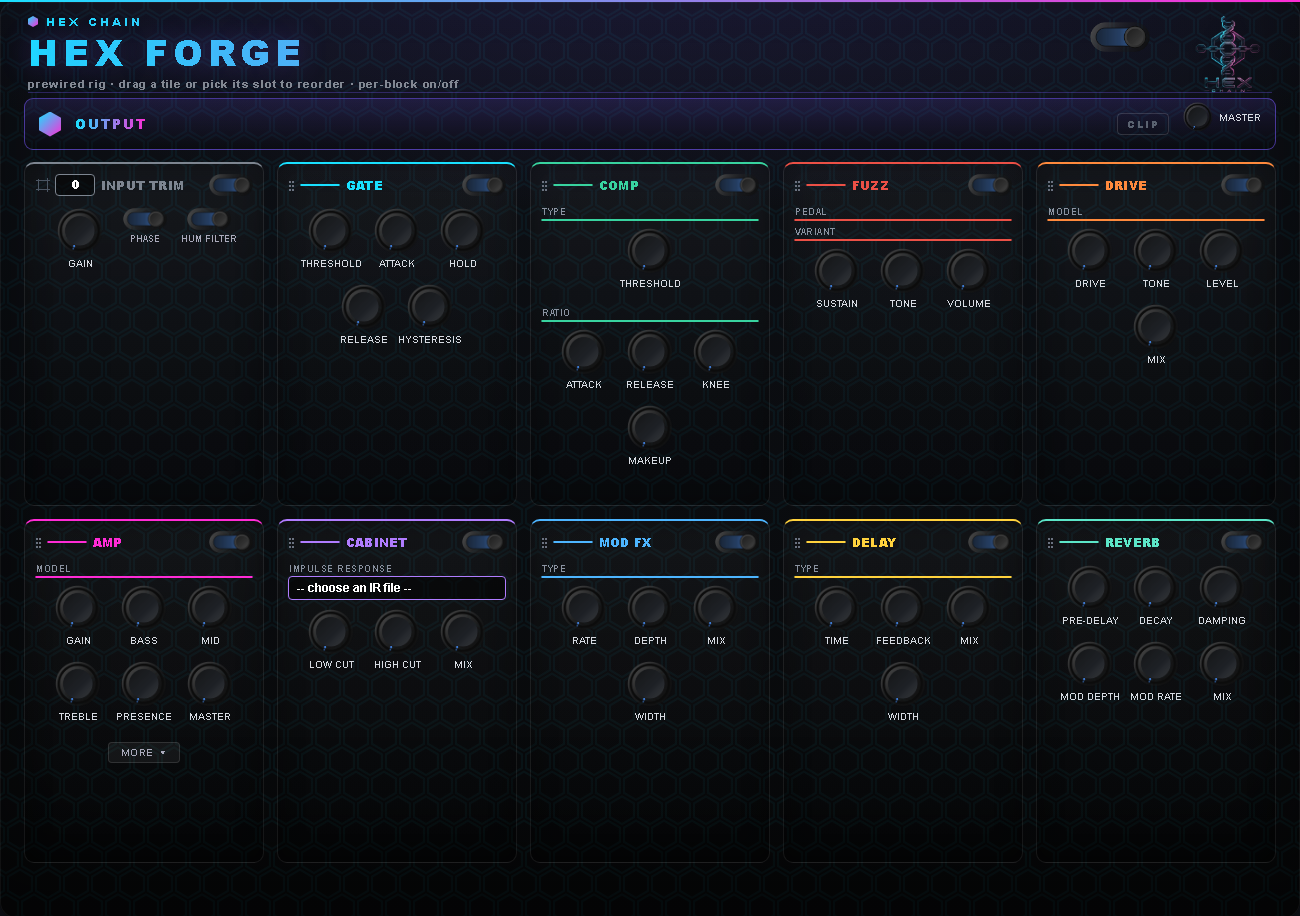
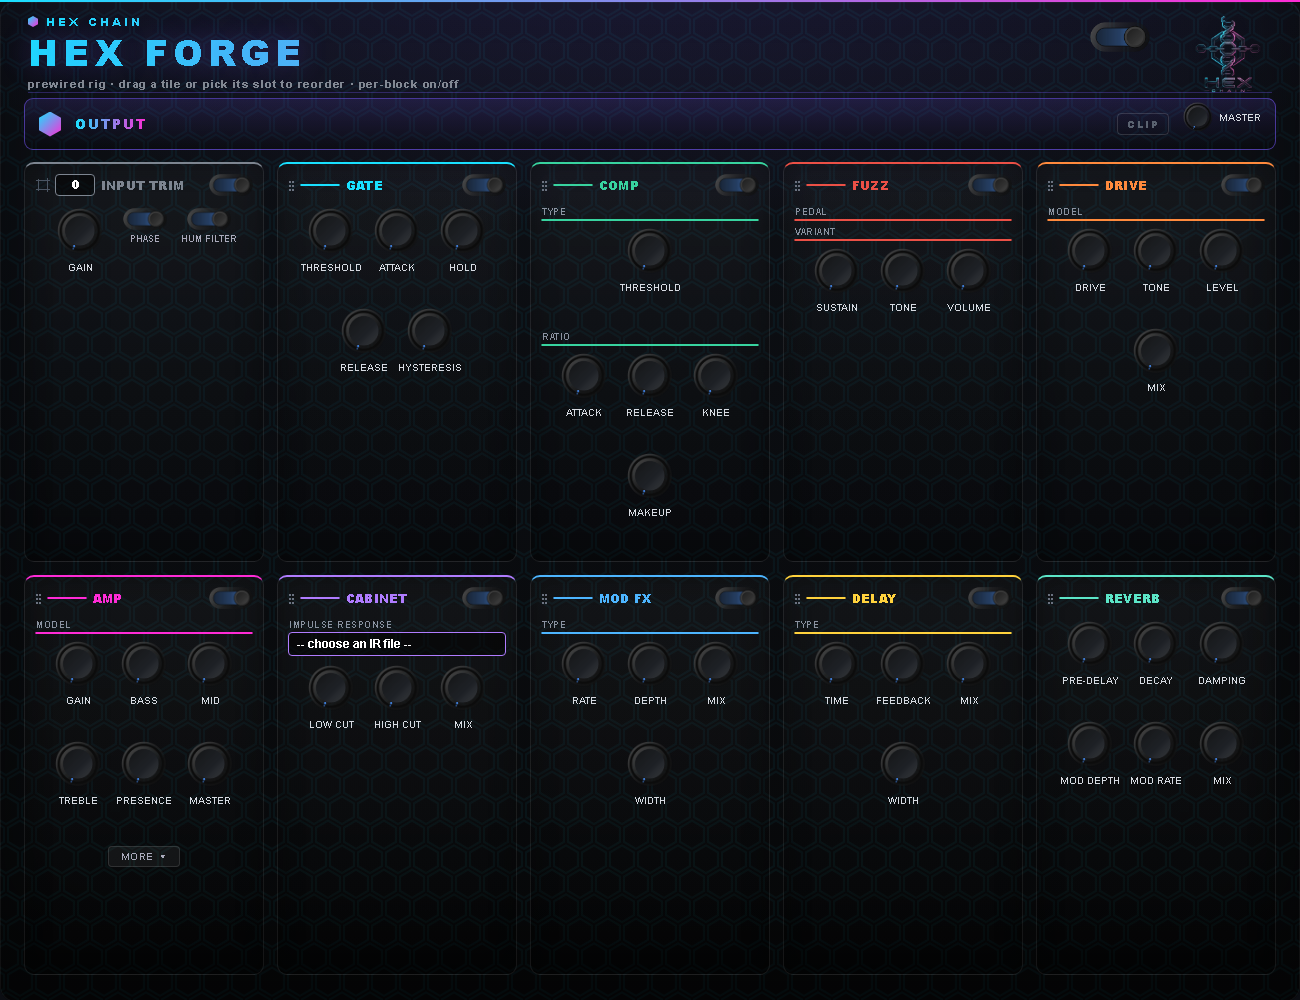
Hex Forge: roomy knob/value cells + taller tiles (no cramping/overflow)
The knob value readout was crowding the row (76px cells) and spilling into the
next row on-device — which is what pushed the comp Makeup into Mod FX. Give knob
cells 100px with real spacing above the title and the value, and make tiles a
generous 400px (forge 1000px) so nothing feels cramped.

diff --git a/lv2/modgui-hexforge/stylesheet-hexforge.css b/lv2/modgui-hexforge/stylesheet-hexforge.css
@@ -14,7 +14,7 @@
     background-position: center top, center top, center top;
     background-size: 28px 49px, 100% 100%, 100% 100%;
     width: 1300px;
-    height: 916px;
+    height: 1000px;
     position: absolute;
     border-radius: 16px;
     border-top: 2px solid transparent;
@@ -111,7 +111,7 @@
 }
 
 .mod-pedal-guitaramp-hexforge{{{cns}}} .hf-tile {
-    width: 240px; box-sizing: border-box; position: relative; height: 344px;  /* uniform */
+    width: 240px; box-sizing: border-box; position: relative; height: 400px;  /* uniform, roomy */
     background: linear-gradient(180deg, rgba(255,255,255,.04), rgba(0,0,0,.20));
     border: 1px solid rgba(255,255,255,.07);
     border-top: 2px solid var(--acc);
@@ -176,19 +176,19 @@
 
 /* KNOBS */
 .mod-pedal-guitaramp-hexforge{{{cns}}} .hf-knob {
-    display: inline-block; width: 66px; height: 76px; overflow: visible; position: relative; vertical-align: top;
+    display: inline-block; width: 66px; height: 100px; overflow: visible; position: relative; vertical-align: top;
 }
 .mod-pedal-guitaramp-hexforge{{{cns}}} .hf-knob-img {
     background-image: url(/resources/knobs/knob.png{{{ns}}});
     background-repeat: no-repeat; background-size: auto 46px; height: 46px; width: 46px; margin: 2px auto 0;
 }
 .mod-pedal-guitaramp-hexforge{{{cns}}} .hf-knob-t {
-    display: block; font-size: 10px; font-weight: 700; text-transform: uppercase; color: #d7dbe2; margin-top: 3px;
+    display: block; font-size: 10px; font-weight: 700; text-transform: uppercase; color: #d7dbe2; margin-top: 7px;
     white-space: nowrap; overflow: hidden; text-overflow: ellipsis;
 }
 .mod-pedal-guitaramp-hexforge{{{cns}}} .hf-knob-v {
-    display: block; font-size: 10px; font-weight: 600; color: var(--acc); margin-top: 1px; line-height: 1.1;
-    white-space: nowrap; overflow: hidden; text-overflow: ellipsis;
+    display: block; font-size: 10px; font-weight: 600; color: var(--acc); margin-top: 6px; line-height: 1.3;
+    white-space: nowrap; overflow: visible; text-overflow: clip;
 }
 
 /* SWITCHES (toggles) */

diff --git a/build-tools/render_hexforge.py b/build-tools/render_hexforge.py
@@ -9,7 +9,7 @@ BASE = os.path.join(REPO, "lv2", "modgui-hexforge")
 OUT  = os.path.join(os.environ["TEMP"], "hxthumb")
 os.makedirs(OUT, exist_ok=True)
 CHROME = r"C:\Program Files\Google\Chrome\Application\chrome.exe"
-W, H = 1300, 916
+W, H = 1300, 1000
 # Conditional classes hidden in the default selection (amp=Crunchy, PA Auto on,
 # fuzz=Italian Hero, drive=Green Man, delay=Digital) — mirror script-hexforge.js
 # so the static screenshot reflects the real default view.
